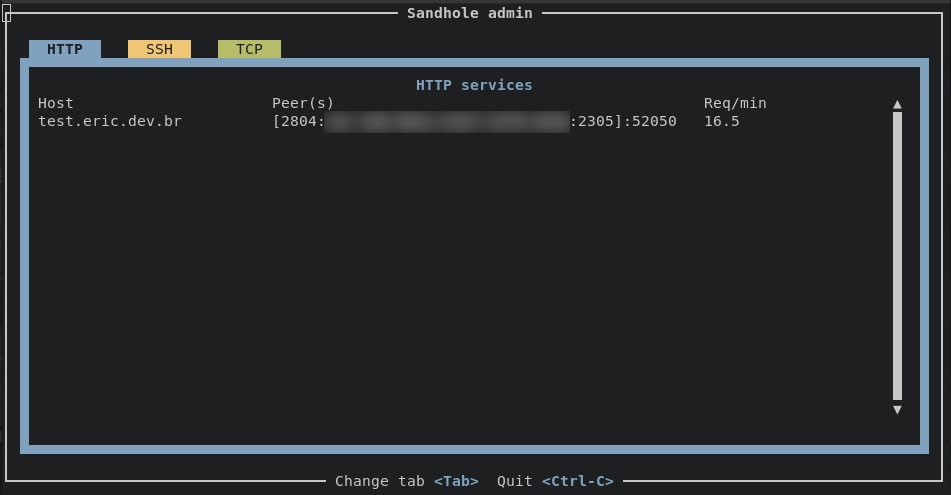
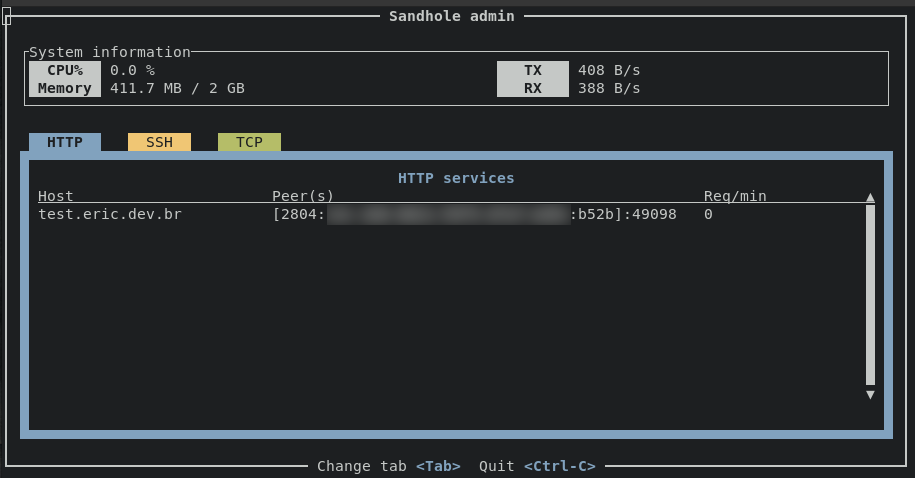
Add sysinfo and revamp admin interface

Changed region(s): [[0.0, 0.0, 1.0, 0.9958], [0.2754, 0.3808, 0.7344, 0.4686], [0.765, 0.3808, 0.8568, 0.4686]]

diff --git a/src/admin.rs b/src/admin.rs
@@ -6,12 +6,13 @@ use std::{
     time::Duration,
 };
 
+use human_bytes::human_bytes;
 use itertools::Itertools;
 use ratatui::{
     buffer::Buffer,
     layout::{Constraint, Layout, Margin, Rect},
     prelude::CrosstermBackend,
-    style::{Style, Stylize},
+    style::{Modifier, Style, Stylize},
     symbols::border,
     text::{Line, Text},
     widgets::{
@@ -26,7 +27,7 @@ use tokio::{
     time::sleep,
 };
 
-use crate::{tcp_alias::TcpAlias, SandholeServer};
+use crate::{tcp_alias::TcpAlias, SandholeServer, SystemData};
 
 struct BufferedSender {
     tx: UnboundedSender<Vec<u8>>,
@@ -119,10 +120,15 @@ impl AdminState {
                 .title_bottom(instructions.centered())
                 .border_set(border::THICK);
             block.render(area, buf);
-            let [tabs_area, inner_area] =
-                Layout::vertical([Constraint::Length(1), Constraint::Min(0)])
-                    .areas(area.inner(Margin::new(2, 2)));
+            let [system_data_area, _, tabs_area, inner_area] = Layout::vertical([
+                Constraint::Length(4),
+                Constraint::Length(1),
+                Constraint::Length(1),
+                Constraint::Min(0),
+            ])
+            .areas(area.inner(Margin::new(2, 2)));
             Tab::render(tabs_area, buf, self.tab.index());
+            self.render_system_data(system_data_area, buf);
             Block::bordered()
                 .border_style(self.tab.style())
                 .border_set(border::PROPORTIONAL_TALL)
@@ -160,7 +166,8 @@ impl AdminState {
                     Constraint::Length(47),
                     Constraint::Min(7),
                 ];
-                let header = Row::new(["Host", "Peer(s)", "Req/min"]);
+                let header =
+                    Row::new(["Host", "Peer(s)", "Req/min"]).add_modifier(Modifier::UNDERLINED);
                 let title =
                     Block::new().title(Line::from("HTTP services".blue().bold()).centered());
                 let table = Table::new(rows, constraints)
@@ -171,7 +178,7 @@ impl AdminState {
                 StatefulWidget::render(table, area, buf, &mut self.table_state);
                 StatefulWidget::render(
                     Scrollbar::default().orientation(ScrollbarOrientation::VerticalRight),
-                    area.inner(Margin::new(1, 1)),
+                    area.inner(Margin::new(0, 1)),
                     buf,
                     &mut self.scroll_state,
                 );
@@ -188,7 +195,7 @@ impl AdminState {
                     .height(len)
                 });
                 let constraints = [Constraint::Min(25), Constraint::Length(47)];
-                let header = Row::new(["Host", "Peer(s)"]);
+                let header = Row::new(["Host", "Peer(s)"]).add_modifier(Modifier::UNDERLINED);
                 let title =
                     Block::new().title(Line::from("SSH services".yellow().bold()).centered());
                 let table = Table::new(rows, constraints)
@@ -199,7 +206,7 @@ impl AdminState {
                 StatefulWidget::render(table, area, buf, &mut self.table_state);
                 StatefulWidget::render(
                     Scrollbar::default().orientation(ScrollbarOrientation::VerticalRight),
-                    area.inner(Margin::new(1, 1)),
+                    area.inner(Margin::new(0, 1)),
                     buf,
                     &mut self.scroll_state,
                 );
@@ -221,7 +228,8 @@ impl AdminState {
                     Constraint::Length(5),
                     Constraint::Length(47),
                 ];
-                let header = Row::new(["Alias", "Port", "Peer(s)"]);
+                let header =
+                    Row::new(["Alias", "Port", "Peer(s)"]).add_modifier(Modifier::UNDERLINED);
                 let title =
                     Block::new().title(Line::from("TCP services".green().bold()).centered());
                 let table = Table::new(rows, constraints)
@@ -232,12 +240,56 @@ impl AdminState {
                 StatefulWidget::render(table, area, buf, &mut self.table_state);
                 StatefulWidget::render(
                     Scrollbar::default().orientation(ScrollbarOrientation::VerticalRight),
-                    area.inner(Margin::new(1, 1)),
+                    area.inner(Margin::new(0, 1)),
                     buf,
                     &mut self.scroll_state,
                 );
             }
         }
+    }
+
+    fn render_system_data(&mut self, area: Rect, buf: &mut Buffer) {
+        let SystemData {
+            used_memory,
+            total_memory,
+            network_tx,
+            network_rx,
+            cpu_usage,
+        } = self.server.system_data.read().unwrap().clone();
+        let block = Block::bordered().title("System information");
+        let [left_area, right_area] =
+            Layout::horizontal([Constraint::Percentage(55), Constraint::Percentage(45)])
+                .areas(block.inner(area));
+        let [cpu_area, memory_area] =
+            Layout::vertical([Constraint::Length(1), Constraint::Length(1)]).areas(left_area);
+        let [tx_area, rx_area] =
+            Layout::vertical([Constraint::Length(1), Constraint::Length(1)]).areas(right_area);
+        let cpu_usage = Line::from(vec![
+            "  CPU%  ".bold().reversed(),
+            format!(" {:.1} %", cpu_usage).into(),
+        ]);
+        let memory_usage = Line::from(vec![
+            " Memory ".bold().reversed(),
+            format!(
+                " {} / {}",
+                human_bytes(used_memory as f64),
+                human_bytes(total_memory as f64)
+            )
+            .into(),
+        ]);
+        let network_tx = Line::from(vec![
+            "   TX   ".bold().reversed(),
+            format!(" {}/s", human_bytes(network_tx as f64)).into(),
+        ]);
+        let network_rx = Line::from(vec![
+            "   RX   ".bold().reversed(),
+            format!(" {}/s", human_bytes(network_rx as f64)).into(),
+        ]);
+        Widget::render(block, area, buf);
+        Widget::render(cpu_usage, cpu_area, buf);
+        Widget::render(memory_usage, memory_area, buf);
+        Widget::render(network_tx, tx_area, buf);
+        Widget::render(network_rx, rx_area, buf);
     }
 }
 
@@ -251,8 +303,6 @@ pub(crate) struct AdminInterface {
     jh: JoinHandle<()>,
     change_notifier: watch::Sender<()>,
 }
-
-//struct TerminalApp(Terminal<CrosstermBackend<BufferedSender>>);
 
 impl AdminInterface {
     pub(crate) fn new(tx: UnboundedSender<Vec<u8>>, server: Arc<SandholeServer>) -> Self {

diff --git a/src/lib.rs b/src/lib.rs
@@ -22,6 +22,7 @@ use russh::server::Config;
 use russh_keys::decode_secret_key;
 use rustls::ServerConfig;
 use rustls_acme::is_tls_alpn_challenge;
+use sysinfo::{CpuRefreshKind, MemoryRefreshKind, Networks, RefreshKind, System};
 use tcp::TcpHandler;
 use tcp_alias::TcpAlias;
 use telemetry::Telemetry;
@@ -71,6 +72,15 @@ impl ConnectionMapReactor<String> for HttpReactor {
     }
 }
 
+#[derive(Default, Clone)]
+struct SystemData {
+    used_memory: u64,
+    total_memory: u64,
+    network_tx: u64,
+    network_rx: u64,
+    cpu_usage: f32,
+}
+
 #[derive(Clone)]
 pub(crate) struct SandholeServer {
     pub(crate) http: Arc<ConnectionMap<String, Arc<SshTunnelHandler>, HttpReactor>>,
@@ -79,6 +89,7 @@ pub(crate) struct SandholeServer {
     pub(crate) http_data: Arc<DataTable<String, (BTreeSet<SocketAddr>, f64)>>,
     pub(crate) ssh_data: Arc<DataTable<String, BTreeSet<SocketAddr>>>,
     pub(crate) tcp_data: Arc<DataTable<TcpAlias, BTreeSet<SocketAddr>>>,
+    pub(crate) system_data: Arc<RwLock<SystemData>>,
     pub(crate) fingerprints_validator: Arc<FingerprintsValidator>,
     pub(crate) api_login: Arc<Option<ApiLogin>>,
     pub(crate) address_delegator: Arc<AddressDelegator<DnsResolver>>,
@@ -255,6 +266,36 @@ pub async fn entrypoint(config: ApplicationConfig) -> anyhow::Result<()> {
             *data_clone.write().unwrap() = data;
         }
     });
+    let sys_data = Arc::new(RwLock::default());
+    let data_clone = Arc::clone(&sys_data);
+    tokio::spawn(async move {
+        let system_refresh = RefreshKind::new()
+            .with_cpu(CpuRefreshKind::new().with_cpu_usage())
+            .with_memory(MemoryRefreshKind::new().with_ram());
+        let mut system = System::new_with_specifics(system_refresh);
+        let mut networks = Networks::new_with_refreshed_list();
+        loop {
+            sleep(Duration::from_millis(1_000)).await;
+            system.refresh_specifics(system_refresh);
+            networks.refresh();
+            let (network_tx, network_rx) = match networks
+                .values()
+                .map(|data| (data.transmitted(), data.received()))
+                .reduce(|acc, elem| (acc.0 + elem.0, acc.1 + elem.1))
+            {
+                Some((tx, rx)) => (tx, rx),
+                None => (0, 0),
+            };
+            let data = SystemData {
+                cpu_usage: system.global_cpu_usage() / system.cpus().len() as f32,
+                used_memory: system.used_memory(),
+                total_memory: system.total_memory(),
+                network_tx,
+                network_rx,
+            };
+            *data_clone.write().unwrap() = data;
+        }
+    });
 
     // HTTP handlers
     let http_listener = TcpListener::bind((listen_address, config.http_port))
@@ -397,6 +438,7 @@ pub async fn entrypoint(config: ApplicationConfig) -> anyhow::Result<()> {
         http_data,
         ssh_data,
         tcp_data,
+        system_data: sys_data,
         fingerprints_validator: fingerprints,
         api_login,
         address_delegator: addressing,

diff --git a/book/src/admin_interface.md b/book/src/admin_interface.md
@@ -1,6 +1,6 @@
 # Admin interface
 
-Sandhole comes with a barebones command-line admin interface available through SSH. In order to access it, you must be a [user with admin credentials](./configuration.md#adding-users-and-admins).
+Sandhole comes with a command-line admin interface available through SSH, which displays information about the system, as well as specific connections. In order to access it, you must be a [user with admin credentials](./configuration.md#adding-users-and-admins).
 
 To access it, simply run the command:
 
